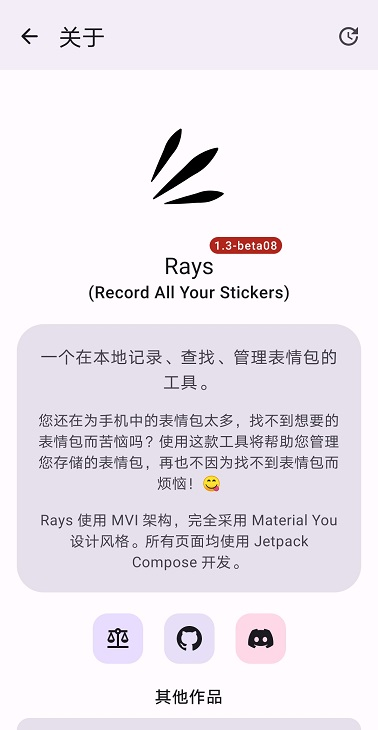
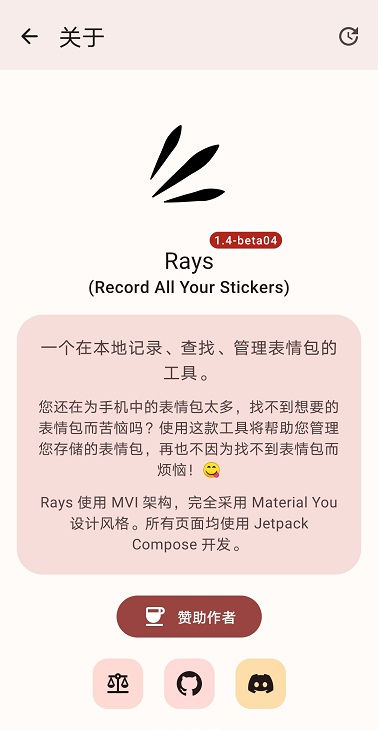
[doc]更新README文档和截图

Changed region(s): [[0.0291, 0.3014, 0.9603, 1.0], [0.4074, 0.1507, 0.582, 0.3014], [0.0291, 0.4521, 0.0582, 0.4822]]

diff --git a/README.md b/README.md
@@ -39,8 +39,6 @@
 </div>
 
 
-
-
 ## 💡 Features
 
 1. Support **tagging** for stickers
@@ -50,7 +48,7 @@
 5. Support **recommending sticker tags** using **Ai** (support change models)
 6. Support **syncing data using WebDAV**
 7. Support importing a sticker through the **system "Share" page**
-8. Support **changing and customizing theme colors**
+8. Support **changing and customizing theme colors**, support **theme color following the sticker's main color**
 9. Support **dark color mode**
 10. ......
 
@@ -59,8 +57,8 @@
 ![ic_home_screen](image/en/ic_home_screen.jpg) ![ic_home_screen_search](image/en/ic_home_screen_search.jpg)
 ![ic_add_screen_edit](image/en/ic_add_screen_edit.jpg) ![ic_home_screen_share](image/en/ic_home_screen_share.jpg)
 ![ic_appearance_screen](image/en/ic_appearance_screen.jpg) ![ic_webdav_screen](image/en/ic_webdav_screen.jpg)
-![ic_search_config_screen](image/en/ic_search_config_screen.jpg) ![ic_more_screen](image/en/ic_more_screen.jpg)
-![ic_settings_screen](image/en/ic_settings_screen.jpg) ![ic_about_screen](image/en/ic_about_screen.jpg)
+![ic_settings_screen](image/en/ic_settings_screen.jpg) ![ic_classification_screen](image/en/ic_classification_screen.jpg)
+![ic_auto_share_screen](image/en/ic_auto_share_screen.jpg) ![ic_about_screen](image/en/ic_about_screen.jpg)
 
 ## 🔍 Search examples
 
@@ -120,6 +118,7 @@ Note: **and** logic is represented by **space, tab, line break**, multiple of th
 - Room
 - Splash Screen
 - Navigation
+- Lottie
 - Profile Installer
 
 ## 🤖 Machine learning

diff --git a/doc/README/README-zh-rCN.md b/doc/README/README-zh-rCN.md
@@ -37,8 +37,6 @@
 
 
 
-
-
 ## 💡主要功能
 
 1. 支持为表情包打**标签**
@@ -48,7 +46,7 @@
 5. 支持 **Ai 推荐表情包标签**（支持更换模型）
 6. 支持**使用 WebDAV 同步**数据
 7. 支持通过**系统“分享”页面导入**表情包
-8. 支持**更换和自定义主题色**
+8. 支持**更换和自定义主题色**，支持主题色**跟随表情包主色调**变化
 9. 支持**深色模式**
 10. ......
 
@@ -58,7 +56,8 @@
 ![ic_add_screen_edit](../../image/zh-rCN/ic_add_screen_edit.jpg) ![ic_home_screen_share](../../image/zh-rCN/ic_home_screen_share.jpg)
 ![ic_appearance_screen](../../image/zh-rCN/ic_appearance_screen.jpg) ![ic_webdav_screen](../../image/zh-rCN/ic_webdav_screen.jpg)
 ![ic_search_config_screen](../../image/zh-rCN/ic_search_config_screen.jpg) ![ic_more_screen](../../image/zh-rCN/ic_more_screen.jpg)
-![ic_settings_screen](../../image/zh-rCN/ic_settings_screen.jpg) ![ic_about_screen](../../image/zh-rCN/ic_about_screen.jpg)
+![ic_settings_screen](../../image/zh-rCN/ic_settings_screen.jpg) ![ic_classification_screen](../../image/zh-rCN/ic_classification_screen.jpg)
+![ic_auto_share_screen](../../image/zh-rCN/ic_auto_share_screen.jpg) ![ic_about_screen](../../image/zh-rCN/ic_about_screen.jpg)
 
 ## 🔍搜索示例
 
@@ -118,6 +117,7 @@
 - Room
 - Splash Screen
 - Navigation
+- Lottie
 - Profile Installer
 
 ## 🤖机器学习
@@ -147,7 +147,6 @@
   </tr>
 </tbody>
 </table>
-
 
 ## 📃许可证
 
